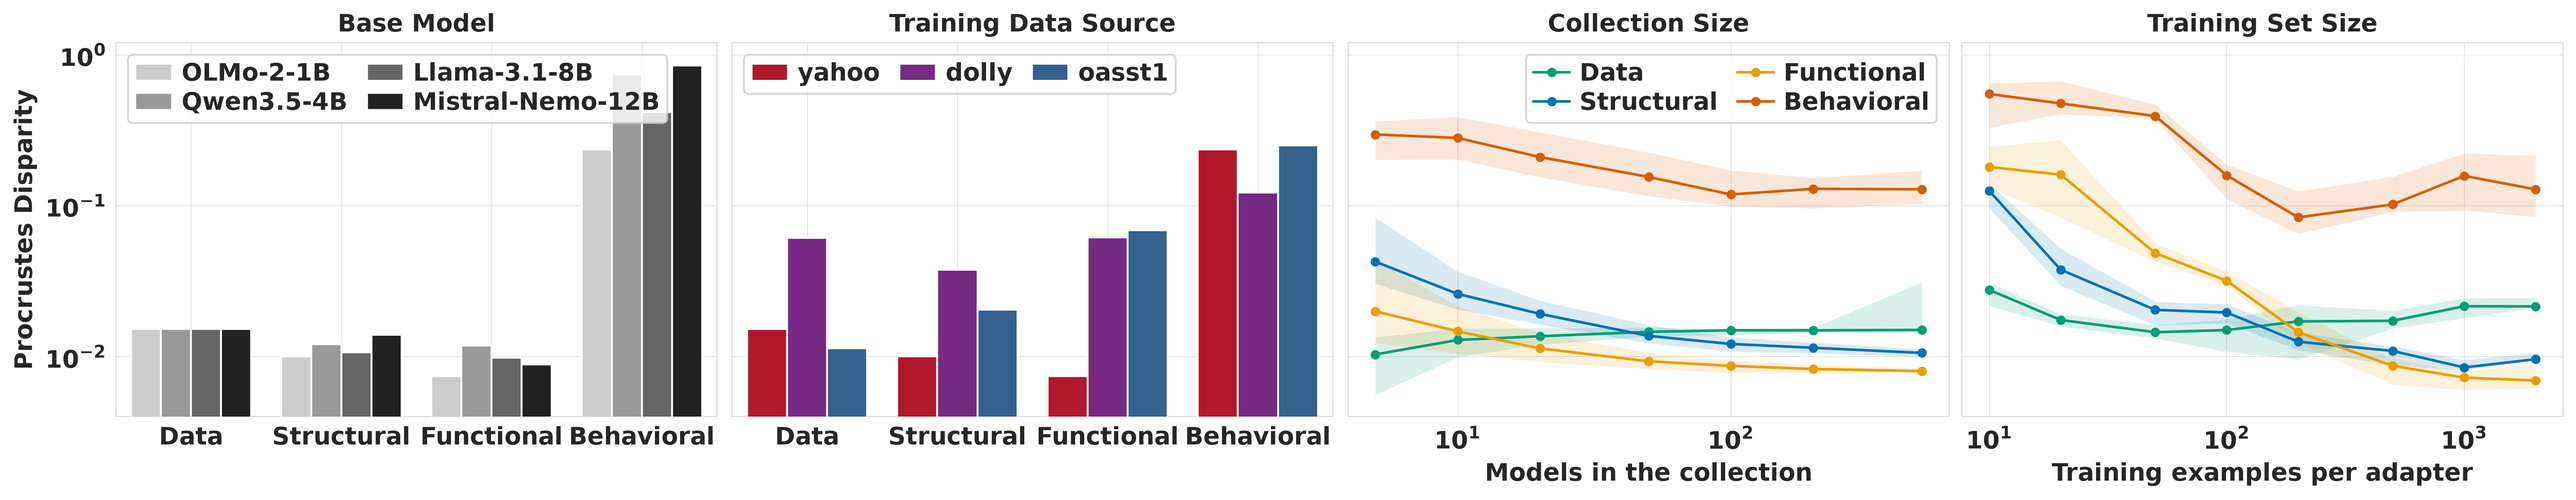
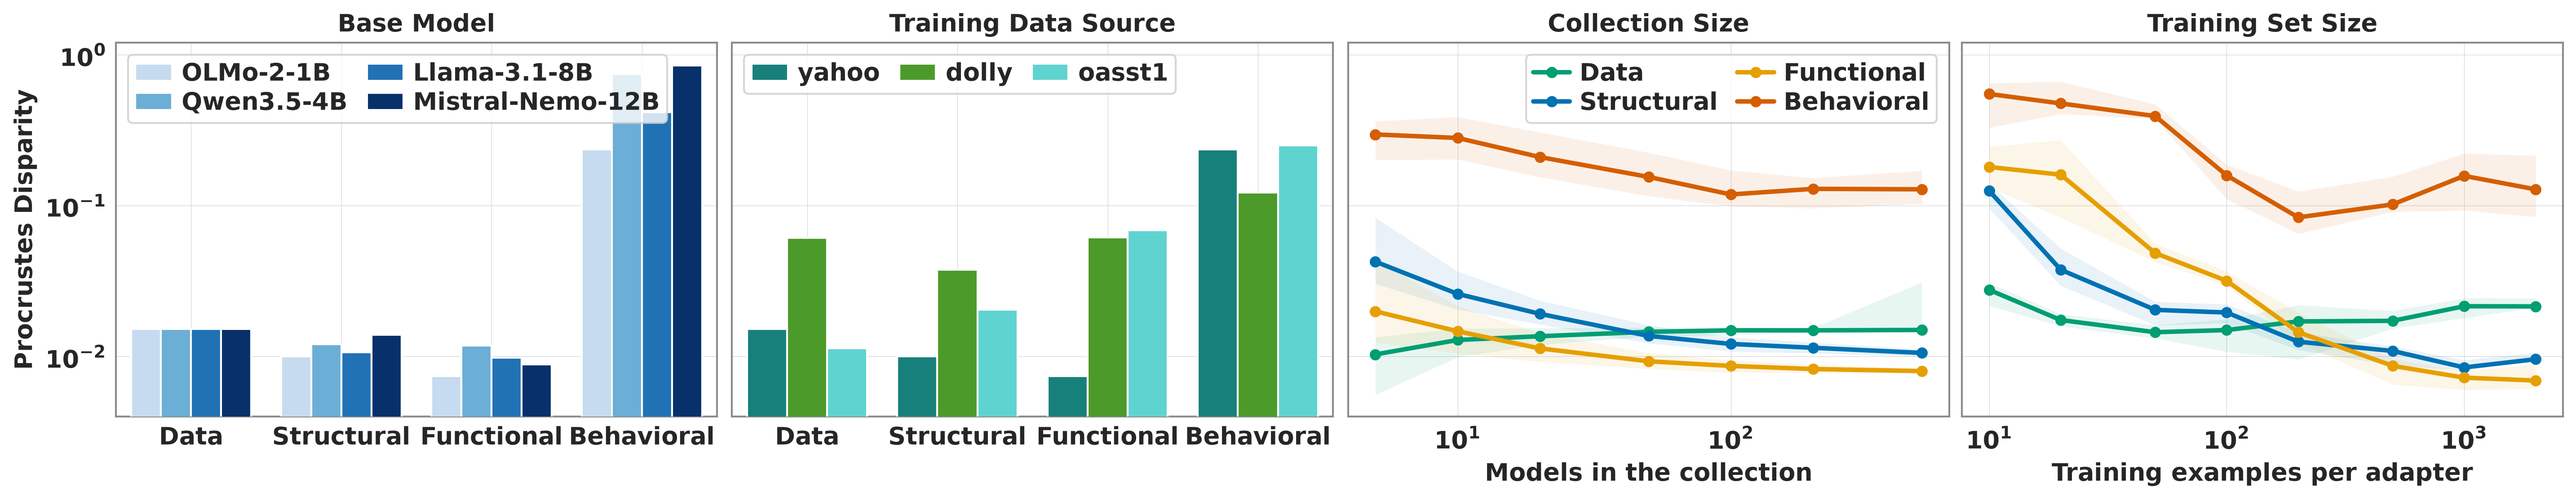
style(figure2): title the key, fill its points, one mark for one model
The mixture key is drawn a fifth smaller than the panels beside it -- it is
a legend, not a fifth measurement -- and titled "Dataset Mixture".

Its sixteen markers are now painted in their own mixture's colour instead of
left as open white rings, so a point on the triangle's boundary reads as a
point rather than as a hole, and it is the same mark the MDS panels draw:
one MIXTURE_MARKER_SIZE for both, taken at KEY_SCALE squared in the key
since a marker size is an area.

Mixtures are written [x,y,z] throughout the row rather than x/y/z; beside
axis values and bar heights the slashes read as a fraction.

Every axis line in the figure -- MDS crosshairs, panel spines, the key's
triangle -- takes one darker AXIS_COLOR, so the nine panels sit in one box.
The sweep curves are drawn heavier and their IQR bands fainter.

Base models move to a blue ramp and corpora to teal/green/turquoise.

src/plots/simplex.py gains the parameters this needs and nothing else:
label_fmt on both functions, axis_color on crosslevel_panel, and
fill_points/pad/outline_color on ternary_legend. Every default reproduces
what the suite already draws.

Claude-Session: https://claude.ai/code/session_013wT22QHA98vYoz6C7ZiiGN

diff --git a/figures/figure2/make_figures.py b/figures/figure2/make_figures.py
@@ -158,7 +158,7 @@ from src.plots import make_series, plot_grouped_bars, save_figure, set_style  # 
 from src.plots.config import bold_capable_family  # noqa: E402
 from src.plots import simplex_runs as runs  # noqa: E402
 from src.plots.simplex import crosslevel_panel, ternary_legend  # noqa: E402
-from src.plots.simplex import group_display  # noqa: E402
+from src.plots.simplex import group_display, mixture_label  # noqa: E402
 
 FIGURES_ROOT = REPO_ROOT / "figures"
 
@@ -194,27 +194,35 @@ LEVEL_COLORS = {
 #: these four can be put on that is not arbitrary, so panel 1's bars can be read
 #: left to right within a group.
 #:
-#: A grey ramp rather than four hues: lightness carries the ordering, which no
-#: reader loses to colour vision, and it leaves every saturated colour in the
-#: figure to the taxonomy levels, which are what the figure is about.
+#: A single-hue blue ramp rather than four hues: lightness carries the ordering,
+#: which no reader loses to colour vision, and one hue for the panel says the
+#: four bars in a group differ in degree rather than in kind.
 MODEL_COLORS = {
-    "allenai/OLMo-2-0425-1B-Instruct":      "#CCCCCC",
-    "Qwen/Qwen3.5-4B":                      "#999999",
-    "meta-llama/Llama-3.1-8B-Instruct":     "#666666",
-    "mistralai/Mistral-Nemo-Instruct-2407": "#222222",
+    "allenai/OLMo-2-0425-1B-Instruct":      "#C6DBEF",
+    "Qwen/Qwen3.5-4B":                      "#6BAED6",
+    "meta-llama/Llama-3.1-8B-Instruct":     "#2171B5",
+    "mistralai/Mistral-Nemo-Instruct-2407": "#08306B",
 }
 
 #: Corpus -> colour, in order of increasing distance from a topic mixture:
 #: yahoo mixes topics, dolly mixes instruction tasks, oasst1 mixes languages.
-#: Three saturated hues of equal weight -- the corpora are not ordered, so
-#: nothing here is a ramp -- dark enough to sit beside panel 1's grey bars
-#: without either panel looking like the other's annotation.
-CORPUS_COLORS = {"yahoo": "#B2182B", "dolly": "#762A83", "oasst1": "#35618F"}
+#: Teal, green and turquoise: one neighbourhood of the wheel, like the model
+#: ramp beside it, but three hues at comparable weight rather than a ramp --
+#: nothing orders three corpora, so nothing here should look ordered.
+CORPUS_COLORS = {"yahoo": "#17807A", "dolly": "#4C9A2A", "oasst1": "#5FD3D0"}
 
 #: One line style for every level in panels 3-4. Hue alone separates the four
 #: curves; they are far enough apart vertically that a dash pattern per level
 #: added texture without adding information.
 SWEEP_LINESTYLE = "-"
+
+#: The curves carry the panel, so they are drawn heavier than a default line.
+SWEEP_LINEWIDTH = 2.4
+SWEEP_MARKER_SIZE = 5
+
+#: The IQR band is context for its curve, not a second series. Faint enough that
+#: two overlapping bands do not read as a third colour.
+BAND_ALPHA = 0.09
 
 #: The marker is the same for every level. It marks where a point was measured
 #: — the seven collection sizes, the nine draw sizes — which is a property of
@@ -249,7 +257,42 @@ MDS_AXES = ("MDS 1", "MDS 2")
 #: ``75/25/0`` and the bottom row of five is a single smear. The key is a dense
 #: legend rather than a panel, and this is the size at which it is readable as
 #: one. The three vertex *names* are unaffected and stay at FONT_SIZE.
-KEY_LABEL_SIZE = 8
+KEY_LABEL_SIZE = 6.0
+
+#: The key is drawn a fifth smaller than the panels beside it, in both the
+#: triangle and the text. It is a legend, not a fifth measurement, and at equal
+#: size it reads as the first of five findings; the extra margin is what buys
+#: the shrink, since the axes cell itself is fixed by the row's grid.
+KEY_SCALE = 0.8
+KEY_PAD = 0.5
+KEY_VERTEX_SIZE = FONT_SIZE * KEY_SCALE
+KEY_TITLE = "Dataset Mixture"
+
+#: One marker area for every mixture point in the top row, key included. The
+#: key and the four MDS panels draw the same sixteen models, and a reader who
+#: looks up a point in the key and then finds it in a panel should be looking at
+#: the same mark; the two sources default to 26 and 130, which reads as two
+#: different kinds of thing. The key draws it at KEY_SCALE, like everything else
+#: in the key -- that is an area, so the scale is squared and the two markers
+#: stay the same mark at the two sizes the row is drawn at.
+MIXTURE_MARKER_SIZE = 70
+KEY_MARKER_SIZE = MIXTURE_MARKER_SIZE * KEY_SCALE ** 2
+
+#: The colour of every axis line in the figure -- the MDS crosshairs, the panel
+#: spines, and the key's triangle, which is that key's only frame. One value, so
+#: the nine panels sit in one box rather than in nine.
+AXIS_COLOR = "0.55"
+
+
+def bracket_label(model_id: str) -> str:
+    """``'[25,50,25]'`` -- a mixture written as the vector it is.
+
+    The project's usual form is ``25/50/25``. Bracketed is this figure's, for
+    both the MDS point labels and the key: nine panels in, a reader meets these
+    trios beside axis values and bar heights, and the brackets say *one label,
+    three numbers* where the slashes read as a fraction.
+    """
+    return "[" + ",".join(mixture_label(model_id).split("/")) + "]"
 
 
 # ── The four levels, in every form the nine panels need them ──────────────────
@@ -415,13 +458,18 @@ def draw_top_row(fig, gs, levels: list[Level], cells, ids) -> None:
     kax = fig.add_subplot(gs[0, 0])
     ternary_legend(kax, ids, label_models=True,
                    vertex_names=group_display(3), show_topics=False,
-                   label_size=KEY_LABEL_SIZE, vertex_size=FONT_SIZE,
-                   marker_size=34,
+                   label_size=KEY_LABEL_SIZE, vertex_size=KEY_VERTEX_SIZE,
+                   marker_size=KEY_MARKER_SIZE, label_fmt=bracket_label,
+                   fill_points=True, pad=KEY_PAD, outline_color=AXIS_COLOR,
                    fontweight="bold", fontfamily=bold_capable_family())
+    kax.set_title(KEY_TITLE, fontsize=FONT_SIZE, pad=10,
+                  fontweight="bold", fontfamily=bold_capable_family())
     for k, label in enumerate(PANEL_ORDER):
         ax = crosslevel_panel(fig.add_subplot(gs[0, k + 1]), by_label[label].label,
                               cells[label], font_size=FONT_SIZE,
-                              point_label_size=POINT_LABEL_SIZE, bold=True)
+                              point_label_size=POINT_LABEL_SIZE, bold=True,
+                              label_fmt=bracket_label, axis_color=AXIS_COLOR,
+                              marker_size=MIXTURE_MARKER_SIZE)
         # No ticks. An MDS coordinate has no units and no origin a reader can
         # use -- the configuration is only defined up to rotation, reflection
         # and scale, which is exactly why it is scored by Procrustes -- so the
@@ -523,9 +571,11 @@ def draw_sweep(ax, which: str, levels: list[Level], legend: bool) -> None:
     path, xcol, ycol, title, xlabel, xmax = SWEEPS[which]
     for lv in levels:
         xs, med, q1, q3 = sweep_series(path, xcol, ycol, lv.sweep_key, xmax)
-        ax.fill_between(xs, q1, q3, color=lv.color, alpha=0.15, lw=0, zorder=2)
+        ax.fill_between(xs, q1, q3, color=lv.color, alpha=BAND_ALPHA, lw=0,
+                        zorder=2)
         ax.plot(xs, med, color=lv.color, ls=SWEEP_LINESTYLE,
-                marker=SWEEP_MARKER, ms=4, lw=1.4, label=lv.label, zorder=3)
+                marker=SWEEP_MARKER, ms=SWEEP_MARKER_SIZE, lw=SWEEP_LINEWIDTH,
+                label=lv.label, zorder=3)
     ax.set_xscale("log")
     ax.set_title(title)
     ax.set_xlabel(xlabel)
@@ -620,6 +670,8 @@ def _apply_style() -> None:
         "font.sans-serif": [bold_capable_family(), "DejaVu Sans"],
         "font.weight": "bold", "axes.labelweight": "bold",
         "axes.titleweight": "bold",
+        "axes.edgecolor": AXIS_COLOR,
+        "axes.linewidth": 1.0,
     })
 
 
@@ -685,7 +737,7 @@ def build(row: str, decoding: str, yscale: str = "log",
 
     r = 0
     if want_top:
-        draw_top_row(fig, outer[r].subgridspec(1, 5, width_ratios=[1.28] + [1.0] * 4),
+        draw_top_row(fig, outer[r].subgridspec(1, 5, width_ratios=[1.28 * KEY_SCALE] + [1.0] * 4),
                      top_levels, cells, ids)
         r += 1
     if want_bottom:

diff --git a/src/plots/simplex.py b/src/plots/simplex.py
@@ -466,6 +466,10 @@ def ternary_legend(
     vertex_size: float = 6,
     fontweight: str = "normal",
     fontfamily: str | None = None,
+    label_fmt: Callable[[str], str] = mixture_label,
+    fill_points: bool = False,
+    pad: float | None = None,
+    outline_color: str = "0.35",
 ) -> plt.Axes:
     """Draw the filled simplex that the point colours are read from.
 
@@ -478,6 +482,14 @@ def ternary_legend(
     the sampled mixtures are placed **radially outward from the centre** rather
     than at a fixed offset, which is what keeps sixteen of them legible on a
     triangle this small.
+
+    *label_fmt* renders a sampled mixture's label; *fill_points* paints each
+    marker in that mixture's own colour -- the colour the same model carries in
+    an MDS panel -- instead of leaving it an open white ring, so a marker on the
+    boundary reads as a full point rather than a hole in the triangle. *pad*
+    overrides the margin left around the triangle, which is what shrinks the
+    drawn key inside a fixed axes; *outline_color* is the triangle's edge, which
+    a figure drawing its own axes usually wants to match them.
 
     **Three groups only.** ``_bary_to_xy`` maps onto a triangle and this function
     labels three corners; a tetrahedron has no honest 2-D barycentric picture, so
@@ -518,7 +530,7 @@ def ternary_legend(
     ax.imshow(rgba, origin="lower", extent=(0.0, 1.0, 0.0, _SQRT3_2), interpolation="bilinear")
     ax.add_patch(Polygon(
         [[0.5, _SQRT3_2], [1.0, 0.0], [0.0, 0.0]],
-        closed=True, fill=False, edgecolor="0.35", linewidth=0.8,
+        closed=True, fill=False, edgecolor=outline_color, linewidth=0.8,
     ))
 
     text_kw = {"fontweight": fontweight}
@@ -527,8 +539,13 @@ def ternary_legend(
 
     if model_ids:
         pts = _bary_to_xy(np.array([mixture_weights(m) for m in model_ids]))
-        ax.scatter(pts[:, 0], pts[:, 1], s=marker_size, facecolors="none",
-                   edgecolors="white", linewidths=0.9, zorder=3)
+        if fill_points:
+            ax.scatter(pts[:, 0], pts[:, 1], s=marker_size,
+                       c=model_colors(model_ids, anchors),
+                       edgecolors="0.2", linewidths=0.9, zorder=3)
+        else:
+            ax.scatter(pts[:, 0], pts[:, 1], s=marker_size, facecolors="none",
+                       edgecolors="white", linewidths=0.9, zorder=3)
         if label_models:
             # Push each label away from the centroid along its own radius. A
             # fixed (3, 3) offset stacks the labels of the four points that share
@@ -540,7 +557,7 @@ def ternary_legend(
                 n = np.linalg.norm(d)
                 dx, dy = (d / n * 9.5) if n > 1e-9 else (0.0, 8.0)
                 ax.annotate(
-                    mixture_label(mid), xy=(x, y), xytext=(dx, dy),
+                    label_fmt(mid), xy=(x, y), xytext=(dx, dy),
                     textcoords="offset points", ha="center", va="center",
                     fontsize=label_size, color="0.15", zorder=4, **text_kw,
                 )
@@ -566,7 +583,8 @@ def ternary_legend(
                     textcoords="offset points", ha=ha, va=va,
                     fontsize=vertex_size, color="0.15", **text_kw)
 
-    pad = 0.30 if (model_ids and label_models) else 0.22
+    if pad is None:
+        pad = 0.30 if (model_ids and label_models) else 0.22
     ax.set_xlim(-pad, 1.0 + pad)
     ax.set_ylim(-pad, _SQRT3_2 + pad * 0.9)
     ax.set_aspect("equal")
@@ -770,6 +788,8 @@ def crosslevel_panel(
     font_size: float | None = None,
     point_label_size: float | None = None,
     bold: bool = True,
+    label_fmt: Callable[[str], str] = mixture_label,
+    axis_color: str = "0.88",
 ) -> plt.Axes:
     """One cross-level MDS panel, drawn into *ax*.
 
@@ -805,6 +825,13 @@ def crosslevel_panel(
     ``font.family`` at its normal weight like every other axes in that figure —
     mixing the two faces inside one figure reads as emphasis that is not
     meant.
+
+    *label_fmt* renders a model id as the text of its point label. It does not
+    choose *which* points are labelled -- *label_points* still does that, and
+    still names them in :func:`mixture_label` form -- so a figure can restyle
+    the four labels without restating which four they are.
+
+    *axis_color* is the colour of the two crosshair lines through the origin.
     """
     from src.analysis.bridge import fit_geometry
     from src.analysis.quality import kruskal_stress
@@ -818,15 +845,15 @@ def crosslevel_panel(
     geo = fit_geometry(dm, "mds", 2, random_state=random_state)
     xy = align_to_simplex(geo.coordinates, geo.model_ids)
 
-    ax.axhline(0.0, color="0.88", lw=1.0, zorder=0)
-    ax.axvline(0.0, color="0.88", lw=1.0, zorder=0)
+    ax.axhline(0.0, color=axis_color, lw=1.0, zorder=0)
+    ax.axvline(0.0, color=axis_color, lw=1.0, zorder=0)
     ax.scatter(xy[:, 0], xy[:, 1], c=model_colors(geo.model_ids, anchors),
                s=marker_size, zorder=3, edgecolors="0.2", linewidths=1.0)
 
     for (x, y), mid in zip(xy, geo.model_ids):
         label = mixture_label(mid)
         if label in keep:
-            ax.annotate(label, xy=(x, y), xytext=(0, 11),
+            ax.annotate(label_fmt(mid), xy=(x, y), xytext=(0, 11),
                         textcoords="offset points", ha="center",
                         fontsize=label_size, color="0.1", zorder=4, **weight)
 
